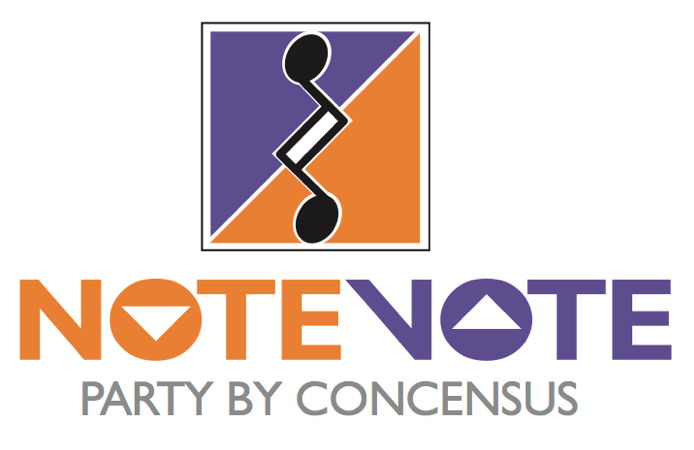
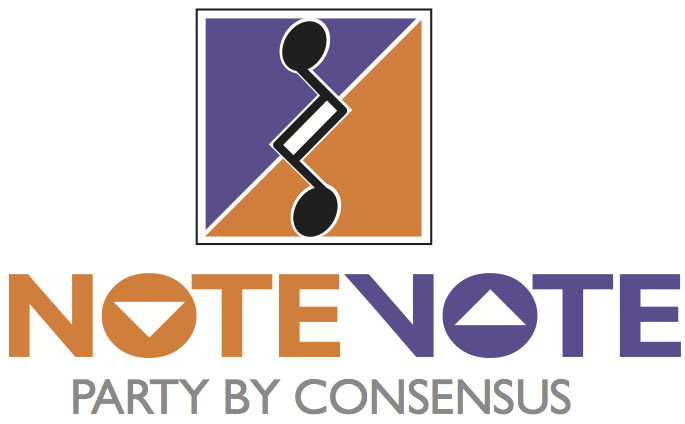
Edited size of starting image and spelling on the image
Also added a todo in the controller

Changed region(s): [[0.0, 0.6132, 1.0, 0.9811], [0.2759, 0.0, 0.6438, 0.5825]]

diff --git a/web/hack-mizzou-2016/resources/views/hostJoin.blade.php b/web/hack-mizzou-2016/resources/views/hostJoin.blade.php
@@ -1,7 +1,7 @@
 @extends('index') @section('mainContent')
 
 <div class="container">
-    <div class="text-center"><img src="IMG/NOTEVOTE_tag.png" alt="NOTEVOTELOGO" width="520.5" height="337.5" class="imageOffset"></div>
+    <div class="text-center"><img src="IMG/NOTEVOTE_tag.png" alt="NOTEVOTELOGO" width="513.75" height="300" class="imageOffset"></div>
     
     <br>
     <br>

diff --git a/web/hack-mizzou-2016/app/Http/Controllers/RoomController.php b/web/hack-mizzou-2016/app/Http/Controllers/RoomController.php
@@ -40,6 +40,7 @@ class RoomController extends Controller
     }
 
     public function joinRoom(Request $request){
+        //TODO add redirect for invalid room number
         $roomID = $request->vcRoomName;
 
         $request->session()->put('roomID', $roomID);
